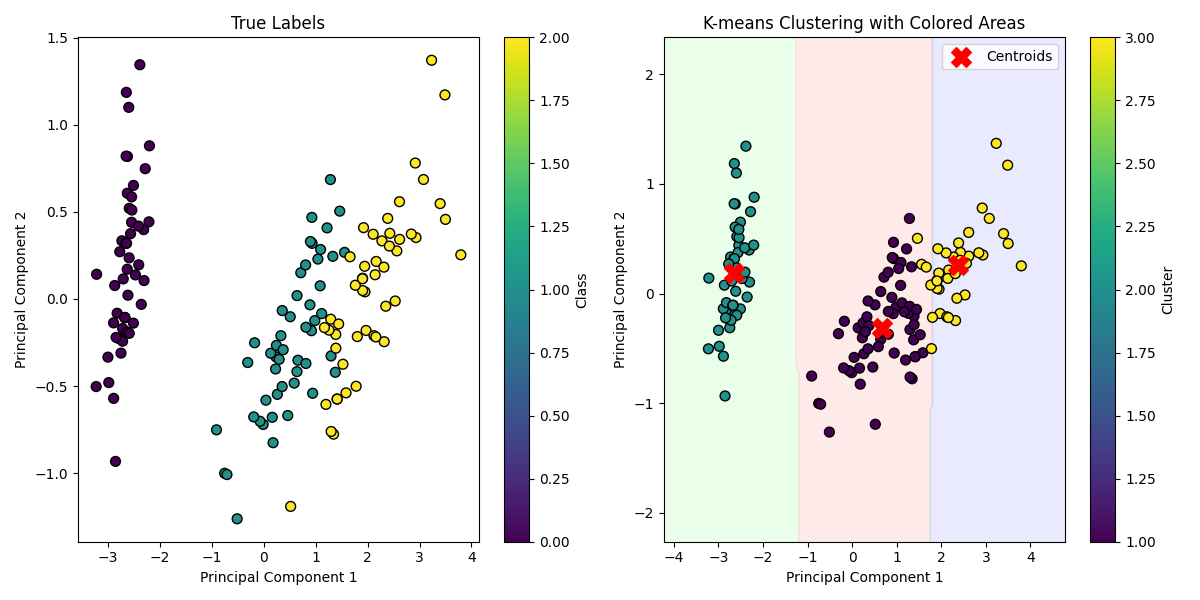
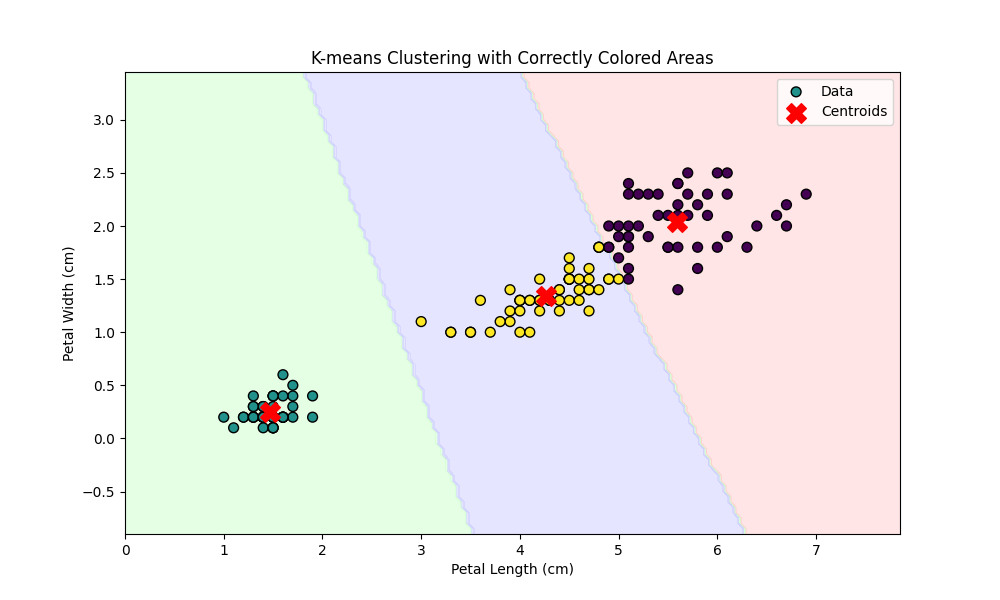
Fixed Clustering Example

diff --git a/README.md b/README.md
@@ -348,63 +348,22 @@ test_kmeans()
 #### Bash Output:
 
 ```bash
-Cluster labels (idx):
- [2. 2. 2. 1. 1. 1. 1. 1. 1.]
-Centroids (C):
- [[8.  2.5]
- [1.  2. ]]
-Within-cluster sums (sumd):
- [37.5  8. ]
-Distances to centroids (D):
- [[4.92500000e+01 7.88860905e-31]
- [5.12500000e+01 4.00000000e+00]
- [5.52500000e+01 4.00000000e+00]
- [4.25000000e+00 8.10000000e+01]
- [6.25000000e+00 8.50000000e+01]
- [1.02500000e+01 8.50000000e+01]
- [9.25000000e+00 1.60000000e+01]
- [4.25000000e+00 2.60000000e+01]
- [3.25000000e+00 4.00000000e+01]]
-Initialization complete
-Iteration 0, inertia 38.0.
-Iteration 1, inertia 20.0.
-Converged at iteration 1: strict convergence.
-Initialization complete
-Iteration 0, inertia 38.0.
-Iteration 1, inertia 20.0.
-Converged at iteration 1: strict convergence.
-Initialization complete
-Iteration 0, inertia 54.0.
-Iteration 1, inertia 31.333333333333336.
-Converged at iteration 1: strict convergence.
-Initialization complete
-Iteration 0, inertia 31.0.
-Iteration 1, inertia 26.1875.
-Iteration 2, inertia 20.0.
-Converged at iteration 2: strict convergence.
-Initialization complete
-Iteration 0, inertia 26.0.
-Iteration 1, inertia 20.0.
-Converged at iteration 1: strict convergence.
-Clustering Accuracy: 0.89
 Cluster assignments (idx):
-[1. 1. 1. 1. 1. 1. 1. 1. 1. 1. 1. 1. 1. 1. 1. 1. 1. 1. 1. 1. 1. 1. 1. 1.
- 1. 1. 1. 1. 1. 1. 1. 1. 1. 1. 1. 1. 1. 1. 1. 1. 1. 1. 1. 1. 1. 1. 1. 1.
- 1. 1. 3. 3. 2. 3. 3. 3. 3. 3. 3. 3. 3. 3. 3. 3. 3. 3. 3. 3. 3. 3. 3. 3.
- 3. 3. 3. 3. 3. 2. 3. 3. 3. 3. 3. 3. 3. 3. 3. 3. 3. 3. 3. 3. 3. 3. 3. 3.
- 3. 3. 3. 3. 2. 3. 2. 2. 2. 2. 3. 2. 2. 2. 2. 2. 2. 3. 3. 2. 2. 2. 2. 3.
- 2. 3. 2. 3. 2. 2. 3. 3. 2. 2. 2. 2. 2. 3. 2. 2. 2. 2. 3. 2. 2. 2. 3. 2.
- 2. 2. 3. 2. 2. 3.]
+[2. 2. 2. 2. 2. 2. 2. 2. 2. 2. 2. 2. 2. 2. 2. 2. 2. 2. 2. 2. 2. 2. 2. 2.
+ 2. 2. 2. 2. 2. 2. 2. 2. 2. 2. 2. 2. 2. 2. 2. 2. 2. 2. 2. 2. 2. 2. 2. 2.
+ 2. 2. 3. 3. 3. 3. 3. 3. 3. 3. 3. 3. 3. 3. 3. 3. 3. 3. 3. 3. 3. 3. 3. 3.
+ 3. 3. 3. 3. 3. 1. 3. 3. 3. 3. 3. 1. 3. 3. 3. 3. 3. 3. 3. 3. 3. 3. 3. 3.
+ 3. 3. 3. 3. 1. 1. 1. 1. 1. 1. 3. 1. 1. 1. 1. 1. 1. 1. 1. 1. 1. 1. 1. 3.
+ 1. 1. 1. 1. 1. 1. 3. 1. 1. 1. 1. 1. 1. 1. 1. 1. 1. 1. 3. 1. 1. 1. 1. 1.
+ 1. 1. 1. 1. 1. 1.]
 
 Centroids (C):
-[[5.006      3.418      1.464      0.244     ]
- [6.85       3.07368421 5.74210526 2.07105263]
- [5.9016129  2.7483871  4.39354839 1.43387097]]
+[[5.59583333 2.0375    ]
+ [1.464      0.244     ]
+ [4.26923077 1.34230769]]
 
 Within-cluster sum of distances (sumd):
-[15.2404     23.87947368 39.82096774]
-
-Process finished with exit code 0
+[16.29166667  2.0384     13.05769231]
 ```
 
 #### Key Points:
